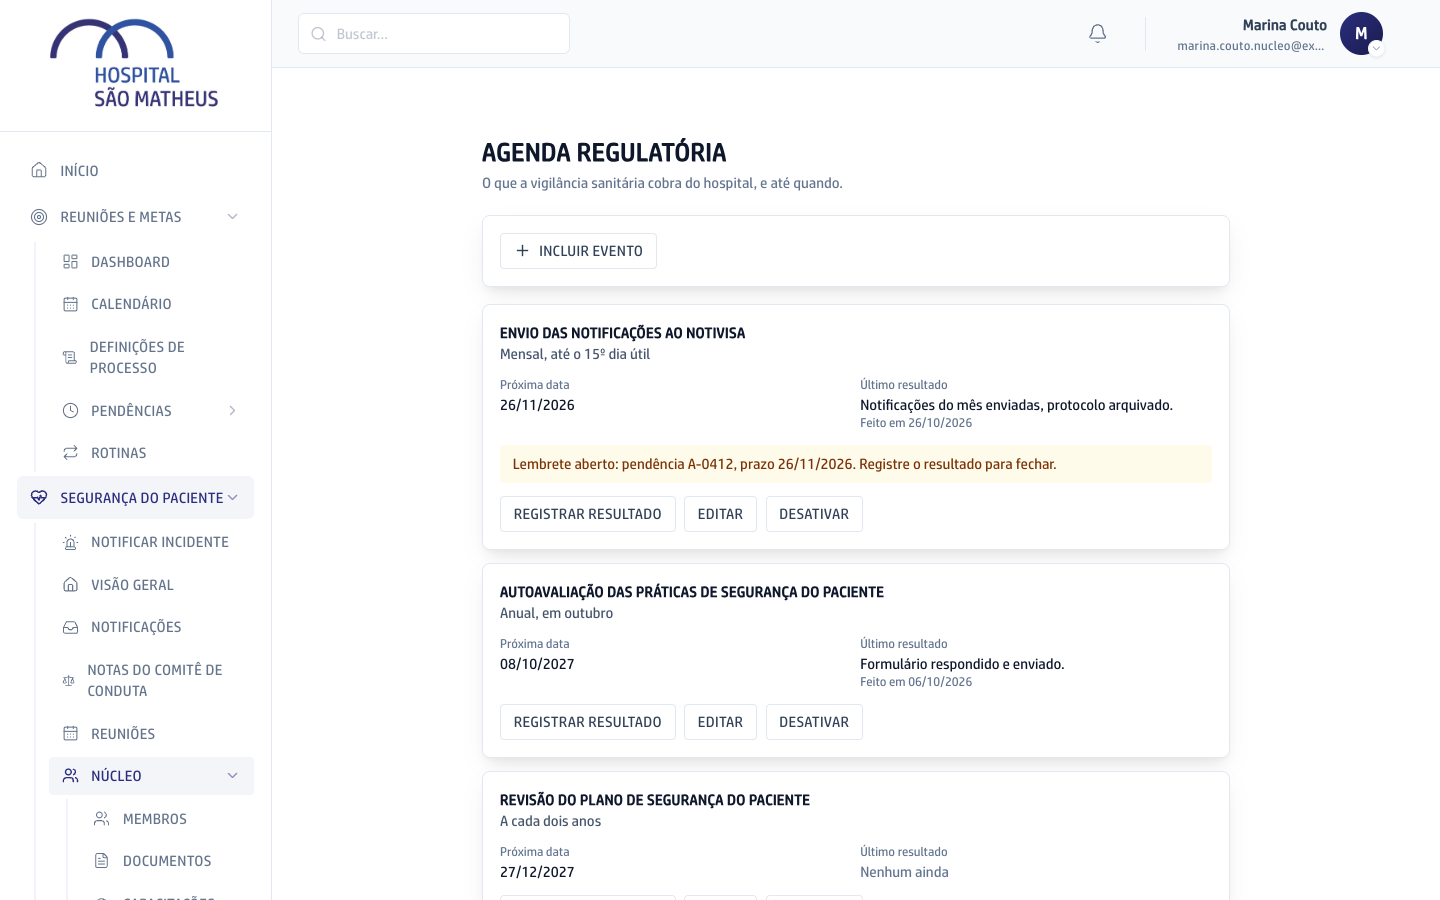
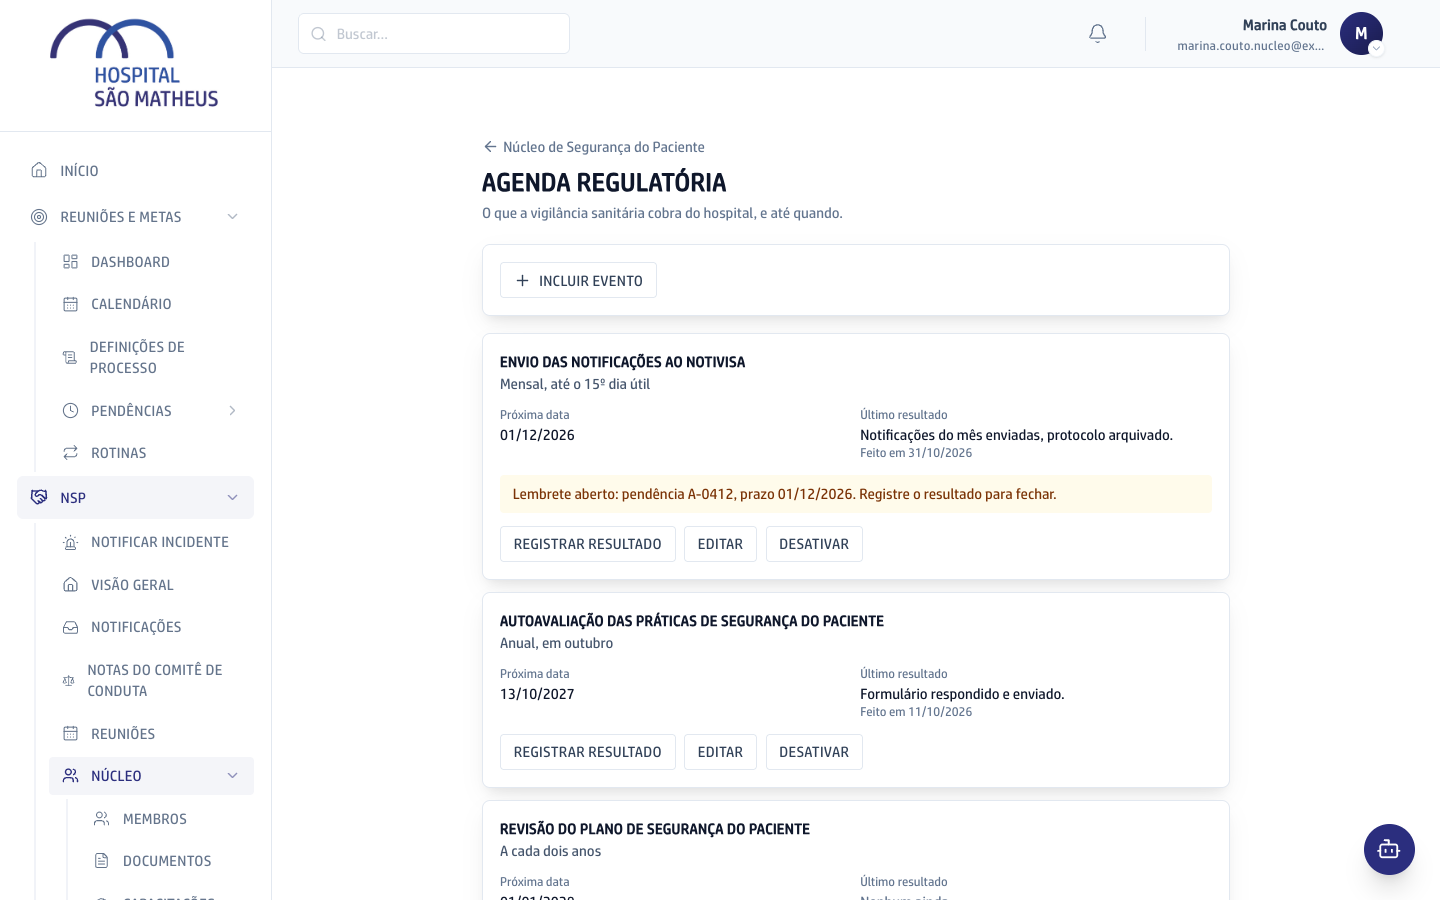
docs(nsp): manual diz quem assina os documentos e ensina a marcar o Responsável técnico (#2251) (#2326)
* wip: manual do NSP diz quem assina e ensina a marcar o Responsável técnico (#2251)

Claude-Session: https://claude.ai/code/session_01Yan3o3QwNrwvWTLMeRe3yN

* wip: roteiro do NSP refaz o print do cadastro com a caixa Responsável técnico (#2251)

Claude-Session: https://claude.ai/code/session_01Yan3o3QwNrwvWTLMeRe3yN

* wip: prints do NSP refeitos pelo roteiro, com o do Responsável técnico (#2251)

Claude-Session: https://claude.ai/code/session_01Yan3o3QwNrwvWTLMeRe3yN

---------

diff --git a/hospital-reunioes/frontend/src/lib/manual/roteiro-seguranca-do-paciente.test.ts b/hospital-reunioes/frontend/src/lib/manual/roteiro-seguranca-do-paciente.test.ts
@@ -56,6 +56,7 @@ const doRoteiro = (): {
   caso_da_triagem: string;
   caso_encaminhado: string;
   caso_classificado: string;
+  responsavel_tecnico: string;
 } => JSON.parse(rodar("--roteiro"));
 
 /** Todo texto de um valor JSON, folha por folha. */
@@ -226,6 +227,24 @@ describe("a tabela de respostas do módulo", () => {
     expect(T["nsp/configuracao/concordancia"]).toMatchObject({ casos: 0, erros_para_baixo: [] });
   });
 
+  it("o envio do Regimento que espera assinatura vai para o Responsável técnico e para a Presidência (#2251)", () => {
+    const { assinaturas } = T["nsp/assinaturas-dos-documentos"] as {
+      assinaturas: { situacao: string; signatarios: { nome: string; qualidade: string }[] }[];
+    };
+    const esperando = assinaturas.filter((a) => a.situacao === "enviado");
+    expect(esperando).toHaveLength(1);
+    expect(esperando[0].signatarios.map((s) => s.qualidade)).toEqual(["responsavel_tecnico", "presidencia"]);
+    expect(esperando[0].signatarios[0].nome).toBe(SEED.responsavel_tecnico.nome);
+  });
+
+  it("o cadastro do usuário que o roteiro abre é o do Responsável técnico de exemplo, com a caixa ainda desmarcada (#2251)", () => {
+    expect(R.responsavel_tecnico).toBe(SEED.responsavel_tecnico.id);
+    expect(T[`admin/usuarios/${R.responsavel_tecnico}`]).toMatchObject({
+      usuario: { id: SEED.responsavel_tecnico.id, nome_completo: SEED.responsavel_tecnico.nome, responsavel_tecnico: false },
+      audit_logs: expect.any(Array),
+    });
+  });
+
   it("o POST só responde o envio e a consulta de exemplo; o resto que grava fica recusado (#2003)", () => {
     const posts = Object.keys(T).filter((k) => !/^[a-z]/.test(k));
     expect(posts.sort()).toEqual(["POST nsp/publico/acompanhamento", "POST nsp/publico/notificacoes"]);
@@ -245,9 +264,10 @@ describe("a tabela de respostas do módulo", () => {
 });
 
 describe("o seed e as respostas da página de Segurança do Paciente", () => {
-  it("as pessoas de exemplo ficam na faixa P17800 a P17809, longe das pessoas dos outros roteiros", () => {
-    const ids = [SEED.presidencia.id, ...SEED.membros.map((m: { id: string }) => m.id), ...SEED.pessoas_fora_do_nucleo.map((p: { id: string }) => p.id)];
-    for (const id of ids) expect(id).toMatch(/^P1780\d$/);
+  // A faixa cresceu para P17819 com o Super admin e o Responsável técnico de exemplo (#2251).
+  it("as pessoas de exemplo ficam na faixa P17800 a P17819, longe das pessoas dos outros roteiros", () => {
+    const ids = [SEED.presidencia.id, SEED.super_admin.id, SEED.responsavel_tecnico.id, ...SEED.membros.map((m: { id: string }) => m.id), ...SEED.pessoas_fora_do_nucleo.map((p: { id: string }) => p.id)];
+    for (const id of ids) expect(id).toMatch(/^P178[01]\d$/);
   });
 
   it("o seed só tem e-mail de exemplo, e nenhum telefone, endereço ou nome de gente de verdade", () => {

diff --git a/hospital-reunioes/frontend/src/lib/manual/pagina-seguranca-do-paciente.test.ts b/hospital-reunioes/frontend/src/lib/manual/pagina-seguranca-do-paciente.test.ts
@@ -35,6 +35,8 @@ const TAREFAS = [
   "Registrar a ausência da Presidência",
   "Ajustar a tabela de prazos",
   "Recalibrar o agente",
+  // Quem assina os documentos do Núcleo (issue #2251, PRD #2247).
+  "Marcar o Responsável técnico",
 ];
 
 function pessoa(campos: Partial<CurrentParticipante>): CurrentParticipante {
@@ -167,6 +169,43 @@ describe("a página de Segurança do Paciente do manual", () => {
     expect(reenvio, "nenhum passo da reunião fala do Reenviar para assinatura").toBeDefined();
     expect(reenvio).toMatch(/todos os presentes/);
     expect(reenvio).toMatch(/5 dias úteis recomeçam/);
+  });
+});
+
+describe("quem assina os documentos do Núcleo (#2251)", () => {
+  /** Os passos numerados de uma seção, cada um com o texto até o próximo. */
+  function passos(titulo: string): string[] {
+    return secao(titulo).texto.split(/^(?=\d+\. )/m).filter((p) => /^\d+\. /.test(p));
+  }
+
+  it("o envio do Regimento vai para o Responsável técnico e para a Presidência, e não para a Diretoria Executiva", () => {
+    const envio = passos("Publicar uma revisão do Regimento").find((p) => /\*\*Enviar para assinatura\*\*/.test(p));
+    expect(envio, "nenhum passo do Regimento fala do Enviar para assinatura").toBeDefined();
+    expect(envio).toMatch(/Responsável técnico/);
+    expect(envio).toMatch(/Presidência do Núcleo/);
+    expect(envio).not.toMatch(/Diretoria Executiva/);
+  });
+
+  it("o fecho do Regimento diz que o Ato de designação é assinado só pelo Responsável técnico", () => {
+    const { texto } = secao("Publicar uma revisão do Regimento");
+    const fecho = texto.split("\n").filter((l) => /ato de designação/i.test(l) && !/^\d+\. /.test(l));
+    expect(fecho, "o fecho não fala do Ato de designação").toHaveLength(1);
+    expect(fecho[0]).toMatch(/só pelo Responsável técnico/);
+    expect(fecho[0]).not.toMatch(/Diretoria Executiva/);
+  });
+
+  it("marcar o Responsável técnico passa pelo cadastro de usuários e avisa que sem ninguém marcado o envio não sai", () => {
+    const { texto } = secao("Marcar o Responsável técnico");
+    expect(texto).toMatch(/\*\*Admin\*\*/);
+    expect(texto).toMatch(/\*\*Usuários\*\*/);
+    expect(texto).toMatch(/\*\*Responsável técnico\*\*/);
+    expect(texto).toMatch(/desmarca/);
+    expect(texto).toContain("Não há Responsável técnico marcado no cadastro para assinar");
+  });
+
+  it("a abertura da página cita o link de voltar do alto das telas (#2249)", () => {
+    const abertura = PAGINA!.corpo.split(/^## /m)[0];
+    expect(abertura).toMatch(/\*\*Núcleo de Segurança do Paciente\*\*, com a seta de voltar/);
   });
 });
 

diff --git a/hospital-reunioes/frontend/scripts/manual/seguranca-do-paciente/respostas.py b/hospital-reunioes/frontend/scripts/manual/seguranca-do-paciente/respostas.py
@@ -175,6 +175,7 @@ def trilha(p: dict) -> list[dict]:
 def documentos() -> dict:
     presidencia = SEED["presidencia"]["nome"]
     diretoria = SEED["diretoria_executiva"]
+    responsavel_tecnico = SEED["responsavel_tecnico"]["nome"]
 
     def versao(id_: str, tipo: str, n: int, titulo: str, publicado_ha: int | None, **resto) -> dict:
         return {
@@ -214,12 +215,31 @@ def documentos() -> dict:
             "assinado_em": None,
             "pode_reenviar": True,
             "signatarios": [
-                {"nome": diretoria, "qualidade": "diretoria_executiva", "assinado_em": instante(1, "16:10")},
+                # Desde a issue #2250, o Regimento vai para o Responsável técnico e a Presidência.
+                {"nome": responsavel_tecnico, "qualidade": "responsavel_tecnico", "assinado_em": instante(1, "16:10")},
                 {"nome": presidencia, "qualidade": "presidencia", "assinado_em": None},
             ],
         }
     ]
     return {"nsp/documentos": {"documentos": lista}, "nsp/assinaturas-dos-documentos": {"assinaturas": assinaturas}}
+
+
+# ------------------------------------------------- cadastro de usuários
+
+
+def cadastro_do_responsavel_tecnico() -> dict:
+    """A ficha do usuário que o roteiro abre no Admin, com a caixa Responsável
+    técnico ainda desmarcada: o roteiro marca e fotografa, sem salvar (#2251)."""
+    rt = SEED["responsavel_tecnico"]
+    usuario = {
+        "id": rt["id"], "nome_completo": rt["nome"], "email": rt["email"], "cargo": rt["cargo"],
+        "setor": rt["setor"], "area": "Diretoria", "role": "coordenador", "ativo": True, "is_externo": False,
+        "is_super_admin": False, "access_profile": "regular", "perfil_pop": None, "perfil_ouvidoria": None,
+        "github_login": None, "perfil_nsp": None, "perfil_conduta": None, "responsavel_tecnico": False,
+        "conselho_profissional": rt["conselho"], "registro_profissional": rt["registro"], "registro_uf": rt["uf"],
+        "auth_user_id": None, "data_cadastro": dia(-400),
+    }
+    return {f"admin/usuarios/{rt['id']}": {"usuario": usuario, "audit_logs": []}}
 
 
 # ----------------------------------------------------------- capacitações
@@ -928,7 +948,8 @@ def notificacoes() -> dict:
 
 
 def tabela() -> dict:
-    return {**membros(), **documentos(), **capacitacoes(), **agenda(), **reunioes(), **notificacoes()}
+    return {**membros(), **documentos(), **capacitacoes(), **agenda(), **reunioes(), **notificacoes(),
+            **cadastro_do_responsavel_tecnico()}
 
 
 def do_roteiro() -> dict:
@@ -942,6 +963,7 @@ def do_roteiro() -> dict:
         "protocolo_da_triagem": casos()[CASO_DA_TRIAGEM]["protocolo"],
         "protocolo_classificado": casos()[CASO_CLASSIFICADO]["protocolo"],
         "contato_classificado": casos()[CASO_CLASSIFICADO]["notificante"]["contato"],
+        "responsavel_tecnico": SEED["responsavel_tecnico"]["id"],
     }
 
 

diff --git a/hospital-reunioes/frontend/scripts/manual/seguranca-do-paciente/semear.py b/hospital-reunioes/frontend/scripts/manual/seguranca-do-paciente/semear.py
@@ -3,8 +3,10 @@
 Paciente do manual (issue #1780, PRD #1764).
 
 O módulo abre pela permissão efetiva do servidor (ADR 0095), então o seed é
-uma pessoa só: a Presidência de exemplo do `seed.json`, com Acesso pleno ao
-NSP, na faixa P17800 a P17809, longe das pessoas dos outros roteiros. Os
+a Presidência de exemplo do `seed.json`, com Acesso pleno ao NSP, e o Super
+admin de exemplo, que abre o cadastro de usuários para o print da caixa
+Responsável técnico (issue #2251), na faixa P17800 a P17819, longe das
+pessoas dos outros roteiros. Os
 membros, os documentos, as reuniões e as atas não moram no banco: o roteiro
 responde no lugar do backend com o `respostas.py`, nenhuma ata chega à IA e
 nenhum envelope sai para assinatura. Nada aqui é gente de verdade, e o script
@@ -85,7 +87,8 @@ def login_de_exemplo(url: str, chave: str, email: str, senha: str, nome: str) ->
 def semear() -> None:
     url, chave = credenciais_locais()
     presidencia = SEED["presidencia"]
-    linha = {
+    super_admin = SEED["super_admin"]
+    presidencia_linha = {
         "id": presidencia["id"],
         "nome_completo": presidencia["nome"],
         "email": presidencia["email"],
@@ -102,9 +105,26 @@ def semear() -> None:
             url, chave, presidencia["email"], presidencia["senha"], presidencia["nome"]
         ),
     }
+    # O cadastro de usuários é só do Super admin (ADR 0101): o layout do Admin
+    # confere no servidor, então ele precisa estar no banco (issue #2251).
+    super_admin_linha = {
+        "id": super_admin["id"],
+        "nome_completo": super_admin["nome"],
+        "email": super_admin["email"],
+        "cargo": super_admin["cargo"],
+        "role": "coordenador",
+        "ativo": True,
+        "access_profile": "super_admin",
+        "is_super_admin": True,
+        "is_externo": False,
+        "perfil_nsp": None,
+        "auth_user_id": login_de_exemplo(
+            url, chave, super_admin["email"], super_admin["senha"], super_admin["nome"]
+        ),
+    }
     req = urllib.request.Request(
         f"{url}/rest/v1/participantes",
-        data=json.dumps([linha]).encode(),
+        data=json.dumps([presidencia_linha, super_admin_linha]).encode(),
         headers={**cabecalhos(chave), "Prefer": "resolution=merge-duplicates"},
         method="POST",
     )
@@ -112,7 +132,7 @@ def semear() -> None:
         urllib.request.urlopen(req, timeout=20).close()
     except urllib.error.HTTPError as e:
         raise SystemExit(f"participantes: {e.code} {e.read().decode()[:300]}") from e
-    print("pessoa de exemplo da página de Segurança do Paciente pronta.")
+    print("pessoas de exemplo da página de Segurança do Paciente prontas.")
 
 
 if __name__ == "__main__":

diff --git a/hospital-reunioes/frontend/public/manual/seguranca-do-paciente/pagina.md b/hospital-reunioes/frontend/public/manual/seguranca-do-paciente/pagina.md
@@ -7,7 +7,9 @@ O módulo Segurança do Paciente é onde o Núcleo de Segurança do Paciente fun
 
 Ele fica no menu da esquerda, em **NSP**, a sigla do Núcleo de Segurança do Paciente, com os itens **Visão geral**, **Reuniões** e **Núcleo**. Dentro de **Núcleo** ficam **Membros**, **Documentos**, **Capacitações** e **Agenda regulatória**.
 
-A Presidência do Núcleo e quem tem Acesso pleno fazem tudo o que esta página descreve. O membro com o Termo de Adesão assinado abre as telas e as atas; cadastrar, publicar e validar ficam com a Presidência e com quem tem Acesso pleno. Quem ainda não assinou o Termo vê o calendário e a agenda; nas outras telas aparece a faixa **Assine o Termo de Adesão para liberar este acesso**, com o botão **Abrir o Termo de Adesão**.
+No alto de cada tela do módulo fica o link **Núcleo de Segurança do Paciente**, com a seta de voltar, que leva à **Visão geral**. No caso aberto de uma notificação, o link é **Notificações** e volta para a lista. O link funciona também na tela aberta pelo link de um e-mail.
+
+A Presidência do Núcleo e quem tem Acesso pleno fazem tudo o que esta página descreve, menos marcar o Responsável técnico, que é do Super admin. O membro com o Termo de Adesão assinado abre as telas e as atas; cadastrar, publicar e validar ficam com a Presidência e com quem tem Acesso pleno. Quem ainda não assinou o Termo vê o calendário e a agenda; nas outras telas aparece a faixa **Assine o Termo de Adesão para liberar este acesso**, com o botão **Abrir o Termo de Adesão**.
 
 Notificar um incidente é para qualquer profissional, com ou sem login, e todo usuário logado vê o botão **Notificar incidente** no alto do grupo **NSP** do menu. Quem abre os casos (a Presidência, quem tem Acesso pleno e o membro com o Termo assinado) vê também o item **Notificações**. A triagem, o encaminhamento e a **Configuração** ficam com a Presidência e com quem tem Acesso pleno.
 
@@ -58,10 +60,22 @@ Enquanto a pessoa não assina o Termo novo, ela continua no estado em que estava
 
    ![A publicação de uma revisão do Regimento](publicar-regimento.png)
 
-5. Clique em **Enviar para assinatura**. O Regimento vai por e-mail para a Diretoria Executiva e para a Presidência do Núcleo, e só vira o vigente quando os dois assinam. Até lá a versão atual continua valendo, e a nova aparece no alto como **Aguardando assinatura**, com quem já assinou.
-6. Se a assinatura travar, use **Reconsultar status da assinatura** ou **Reenviar para assinatura**, na caixa da versão que espera.
+5. Clique em **Enviar para assinatura**. O Regimento vai por e-mail para o Responsável técnico do hospital, a pessoa marcada no cadastro de usuários, e para a Presidência do Núcleo, e só vira o vigente quando os dois assinam. Até lá a versão atual continua valendo, e a nova aparece no alto como **Aguardando assinatura**, com quem já assinou.
+6. Se a assinatura travar, use **Reconsultar status da assinatura** ou **Reenviar para assinatura**, na caixa da versão que espera. O envio que saiu antes para a Diretoria Executiva se corrige pelo **Reenviar para assinatura**: o envio antigo é cancelado e o novo vai para o Responsável técnico.
 
-Nenhuma versão se apaga nem se edita: a correção é sempre uma versão nova. O ato de designação e o Plano de Segurança do Paciente seguem o mesmo caminho; o ato é assinado só pela Diretoria Executiva.
+Nenhuma versão se apaga nem se edita: a correção é sempre uma versão nova. O Plano de Segurança do Paciente segue o mesmo caminho, e o Ato de designação também, mas ele é assinado só pelo Responsável técnico.
+
+## Marcar o Responsável técnico
+
+1. No menu da esquerda, clique em **Admin** e depois em **Usuários**. Só o Super admin vê essa área.
+2. Clique no nome da pessoa e, na ficha dela, clique em **Editar**.
+3. Em **Acesso à Segurança do Paciente**, marque a caixa **Responsável técnico**. Só uma pessoa fica marcada por vez: marcar uma desmarca quem estava.
+
+   ![A caixa Responsável técnico no cadastro do usuário](responsavel-tecnico.png)
+
+4. Se quiser, escreva o **Motivo da alteração**, e clique em **Salvar**. A troca entra no **Histórico recente** da pessoa, com quem trocou e quando.
+
+Para deixar ninguém marcado, desmarque a caixa e salve. Sem ninguém marcado, o envio do Ato de designação, do Regimento e do Plano não sai, e a tela diz **Não há Responsável técnico marcado no cadastro para assinar**. Trocar o Responsável técnico não mexe no documento que já foi para assinatura: ele segue com quem estava nele, e o **Reenviar para assinatura** manda de novo para o Responsável técnico de agora.
 
 ## Registrar uma capacitação e confirmar presença
 
